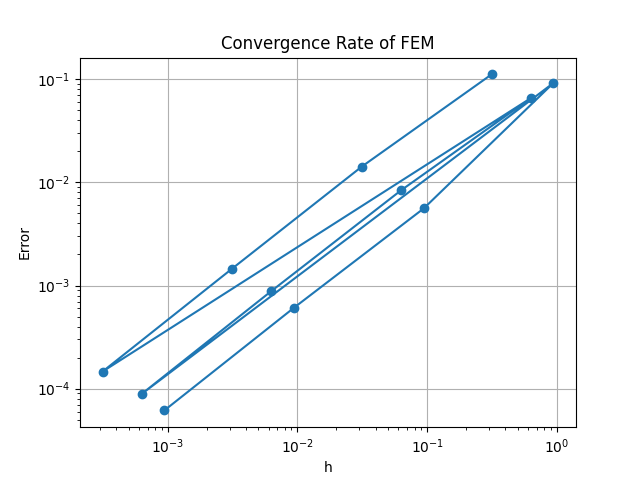
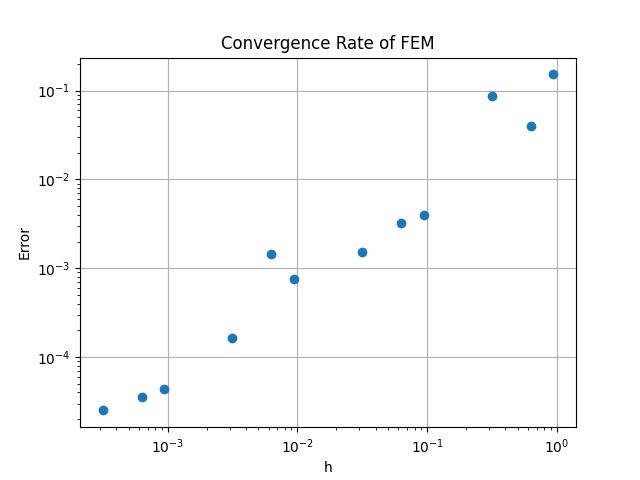
some fixes

diff --git a/fourthTask/main.py b/fourthTask/main.py
@@ -1,4 +1,5 @@
 import numpy as np
+import random
 from math import sqrt, cos, sin
 from itertools import product
 import matplotlib.pyplot as plt
@@ -137,21 +138,15 @@ def check_error(_lambda, L, N, h, y, x):
 
     return left
 
-
-
-
-
 def main():
     data = list(product([i for i in range(1, 4)], [10, 100, 1000, 10000]))
-
-    print(data)
-
     hs = []
     errors = []
-
     for l, N in data:
         A, B = 0.0, np.pi * l
-        _lambda = (np.pi * l / B) ** 2
+        n = random.randint(1, 4)
+        # λ = (pi * n / B) ** 2
+        _lambda = (np.pi * n / B) ** 2
         x = np.linspace(A, B, N+1)
         h = x[1] - x[0]
 
@@ -162,7 +157,7 @@ def main():
         errors.append(err)
 
 
-    plt.loglog(hs, errors, '-o')
+    plt.loglog(hs, errors, 'o')
     plt.xlabel('h')
     plt.ylabel('Error')
     plt.title('Convergence Rate of FEM')

diff --git a/fourthTask/README.md b/fourthTask/README.md
@@ -36,7 +36,7 @@ $$ \|y - y_h\|\_{L_2(0,l)} \leq (\frac{l}{2}+1)^2 h^2 \|2λ * sin(\sqrt{λ}*x)\|
 
 ![1](src/error.png)
 
-Замеры проводились для трех разных интервалов с набором размеров сетки $[10, 100, 1000, 1000]$. Как и ожидалось, в пределах одного интервала величина ошибки линейно зависит от размера сетки. 
+Замеры проводились для трех разных интервалов с набором размеров сетки $[10, 100, 1000, 1000]$. Как и ожидалось, с некоторой погрешностью величина ошибки зависит от размера сетки. 
 
 Также при помощи функции `check_error` проверялась оценка, описанная ранее. Замеры показали, что оценка не соблюлась только 2 раза при размере сетки, равном $10000$ (незначительное отклонение).
 
